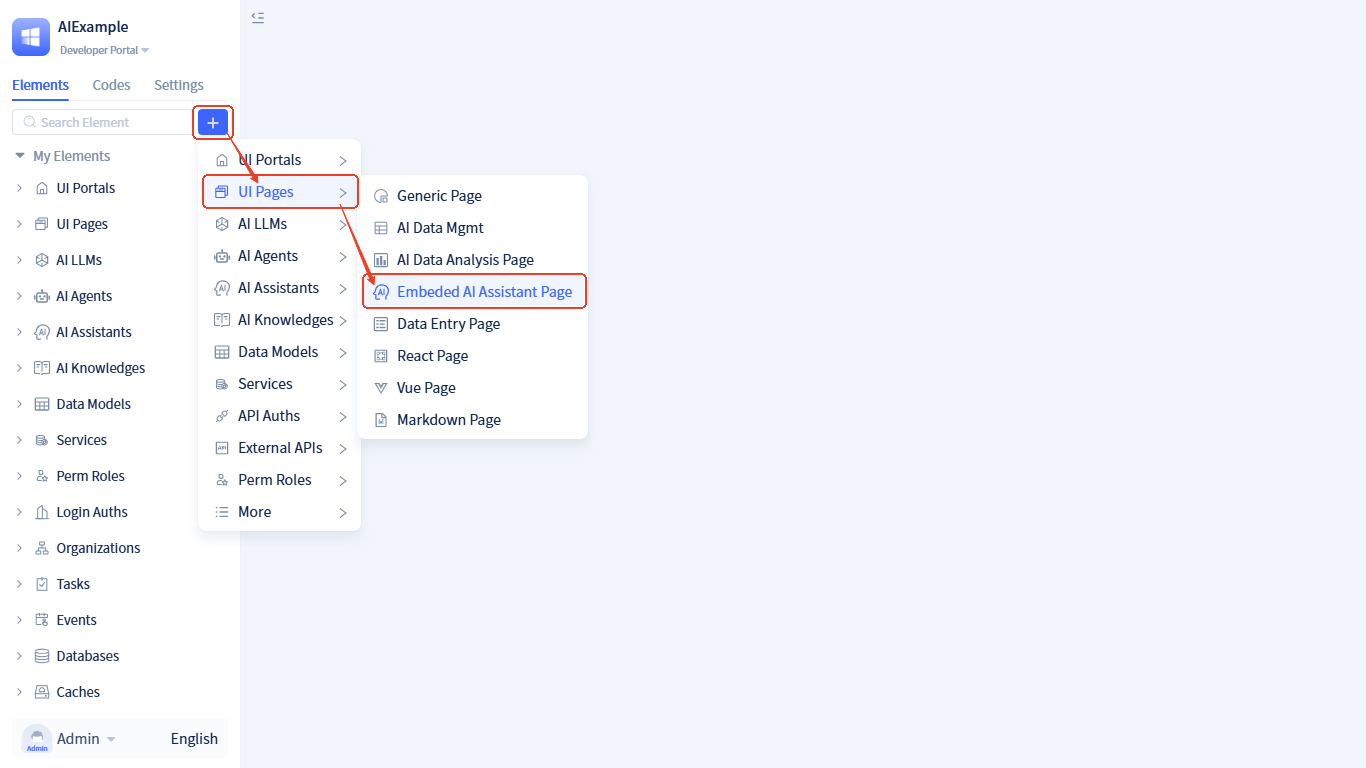
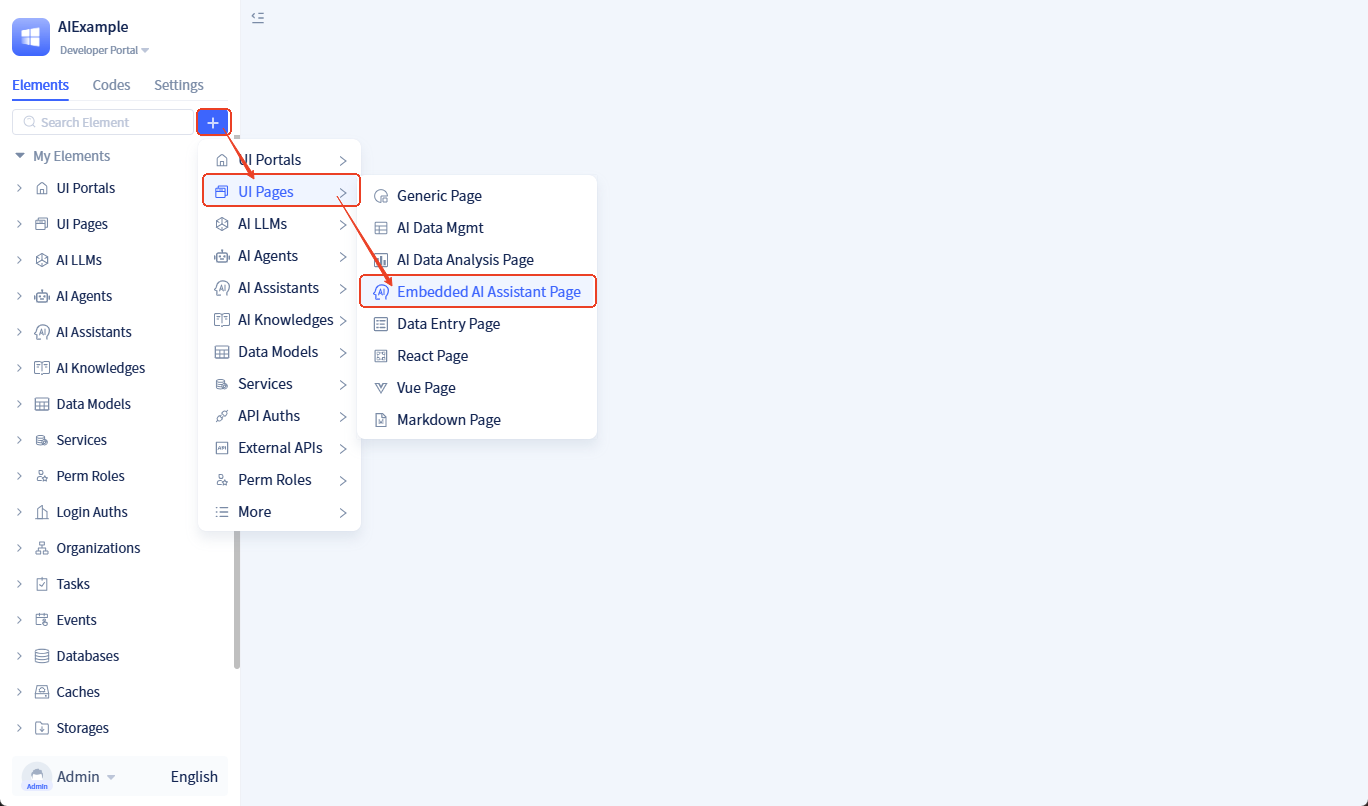
fix: 修复错误拼写

Changed region(s): [[0.0, 0.0312, 0.4305, 0.9062], [0.123, 0.9375, 0.1537, 0.9688], [0.0307, 0.9375, 0.0615, 0.9688]]

diff --git a/docs/devguide/ai-assistant/embed-assistant-to-web-page/index.md b/docs/devguide/ai-assistant/embed-assistant-to-web-page/index.md
@@ -26,23 +26,23 @@ This deep integration capability is currently not available in other AI products
 
 Integrating an AI assistant into an external web page requires only three steps:
 
-1. **Create an Embeded AI Assistant Page**: Create a dedicated AI assistant page for embedding, and obtain the access URL and Token
+1. **Create an Embedded AI Assistant Page**: Create a dedicated AI assistant page for embedding, and obtain the access URL and Token
 2. **Import SDK and Initialize in Your Web Page**: Embed the AI assistant into your web page with just a few lines of code
 3. **Configure Bidirectional Interaction (Optional)**: Configure advanced capabilities such as AI invoking web page functions and web page controlling AI as needed
 
 This document will detail the specific operational methods for each step.
 
-## Step 1: Create an Embeded AI Assistant Page {#creating-embeded-ai-assistant-page}
+## Step 1: Create an Embedded AI Assistant Page {#creating-embeded-ai-assistant-page}
 
-First, you need to create an **Embeded AI Assistant Page**
+First, you need to create an **Embedded AI Assistant Page**
 
-:::tip What is an Embeded AI Assistant Page?
-An Embeded AI Assistant Page is a special page type that encapsulates the interactive interface and runtime logic of an AI assistant, which can be embedded into any external web page. Unlike regular AI assistant pages, it is specifically optimized for external integration scenarios, supporting features like cross-domain communication and Token authentication.
+:::tip What is an Embedded AI Assistant Page?
+An Embedded AI Assistant Page is a special page type that encapsulates the interactive interface and runtime logic of an AI assistant, which can be embedded into any external web page. Unlike regular AI assistant pages, it is specifically optimized for external integration scenarios, supporting features like cross-domain communication and Token authentication.
 :::
 
 **Creation Steps:**
 
-1. Click <span style={{ background:"#3d65fd", display: "inline-block", borderRadius: "8px", textAlign: "center", lineHeight: "100%", color: "#ffffff", fontSize: "24px", padding: "0px 10px 5px" }}>+</span>  → **Page** → **Embeded AI Assistant Page**
+1. Click <span style={{ background:"#3d65fd", display: "inline-block", borderRadius: "8px", textAlign: "center", lineHeight: "100%", color: "#ffffff", fontSize: "24px", padding: "0px 10px 5px" }}>+</span>  → **Page** → **Embedded AI Assistant Page**
 
 ![create-embed-assistant-page](./imgs/create-embed-assistant-page.png)
 
